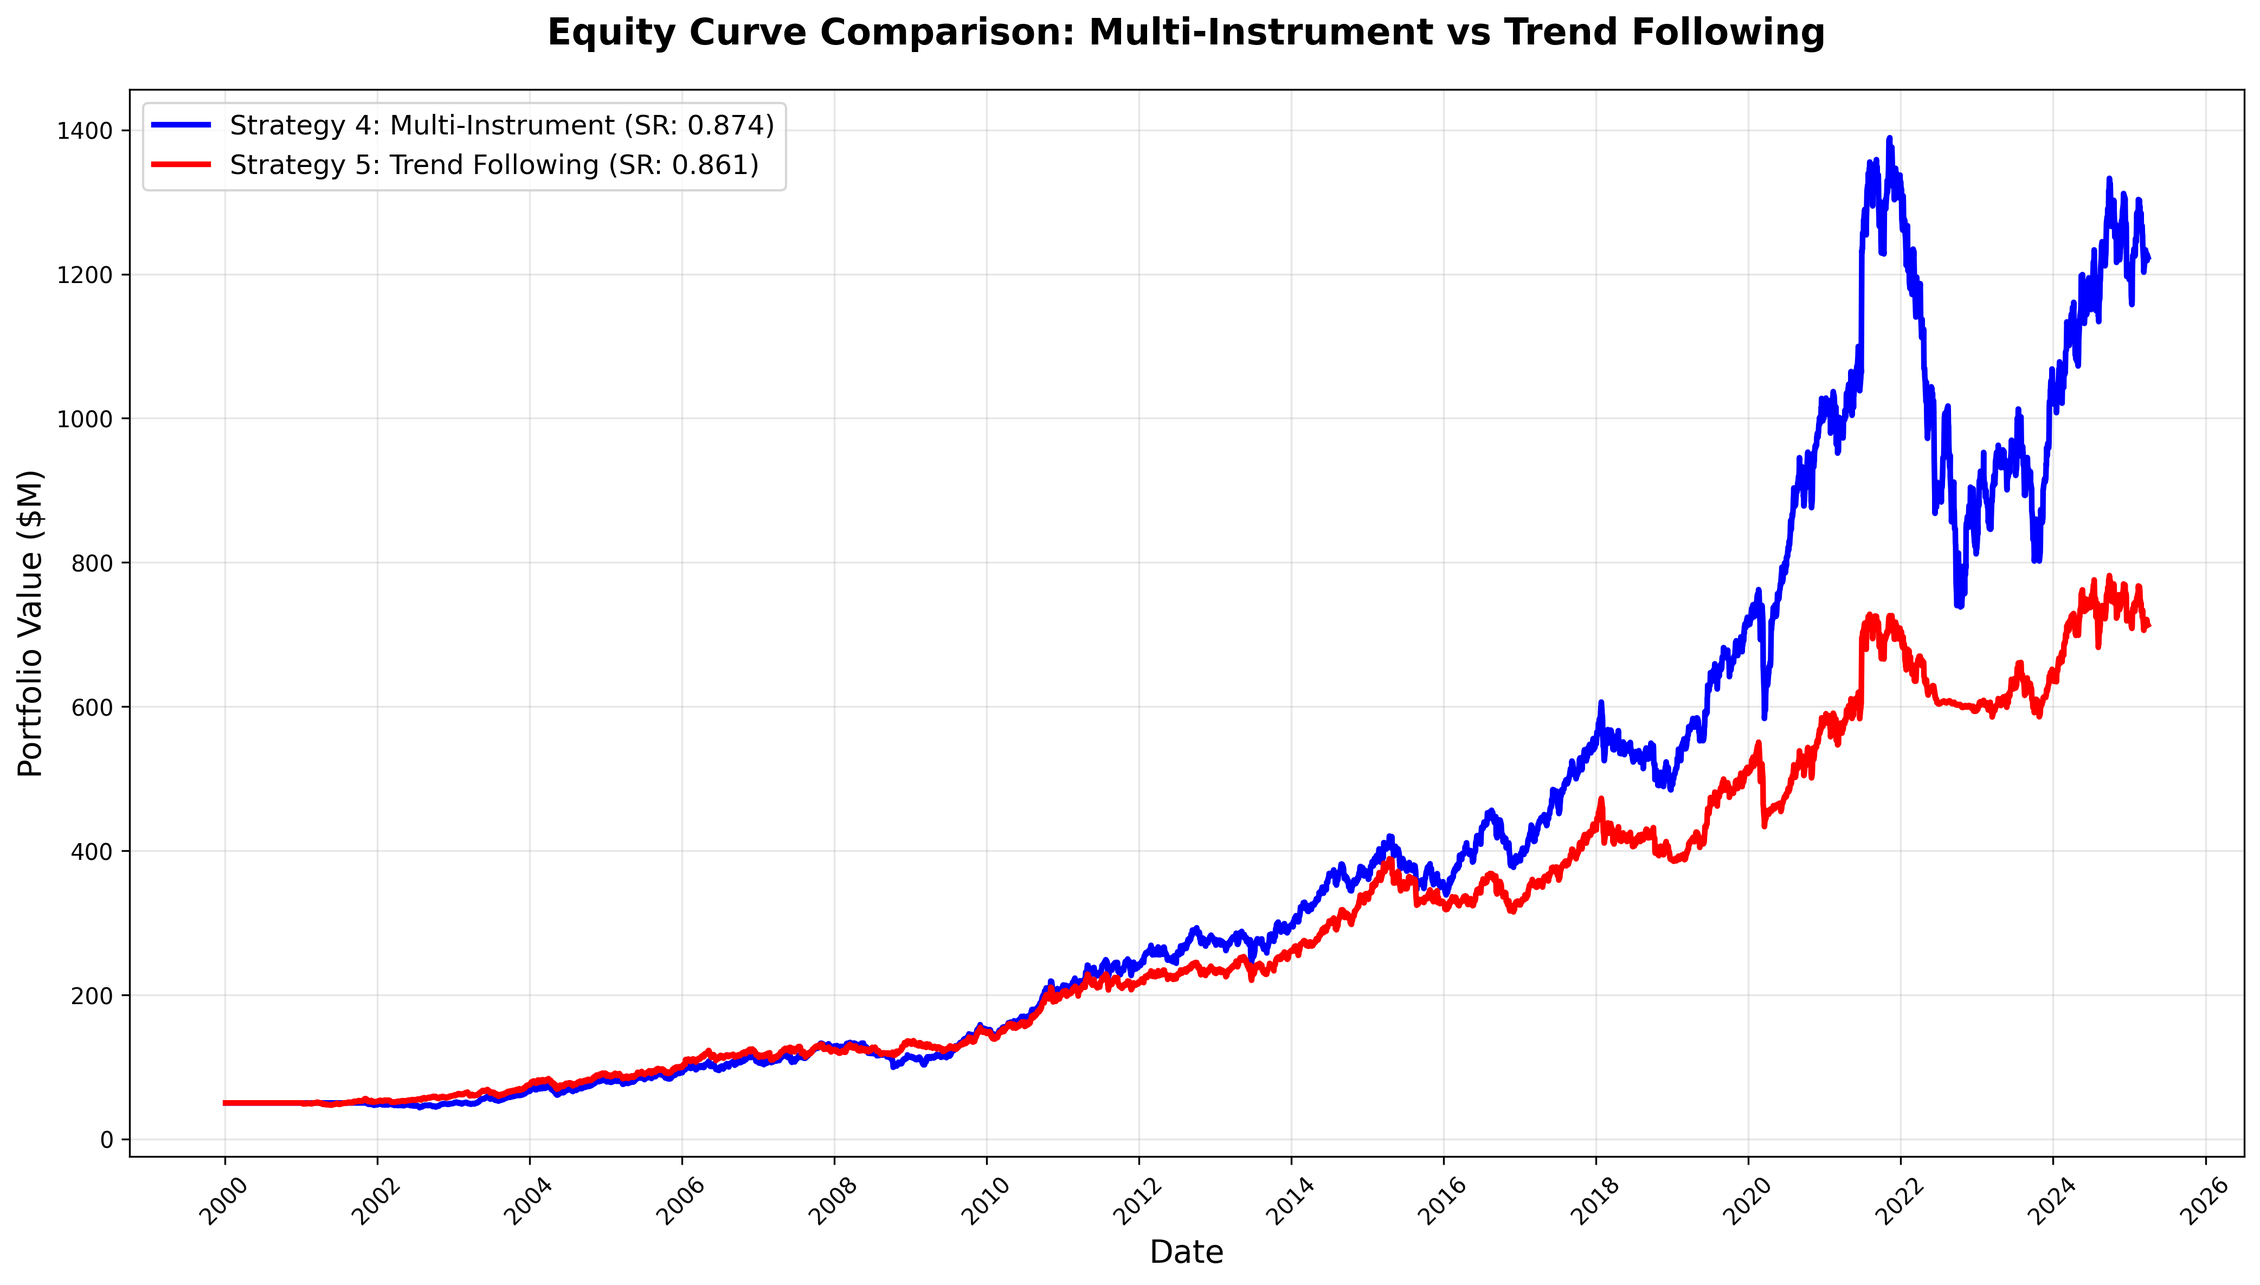
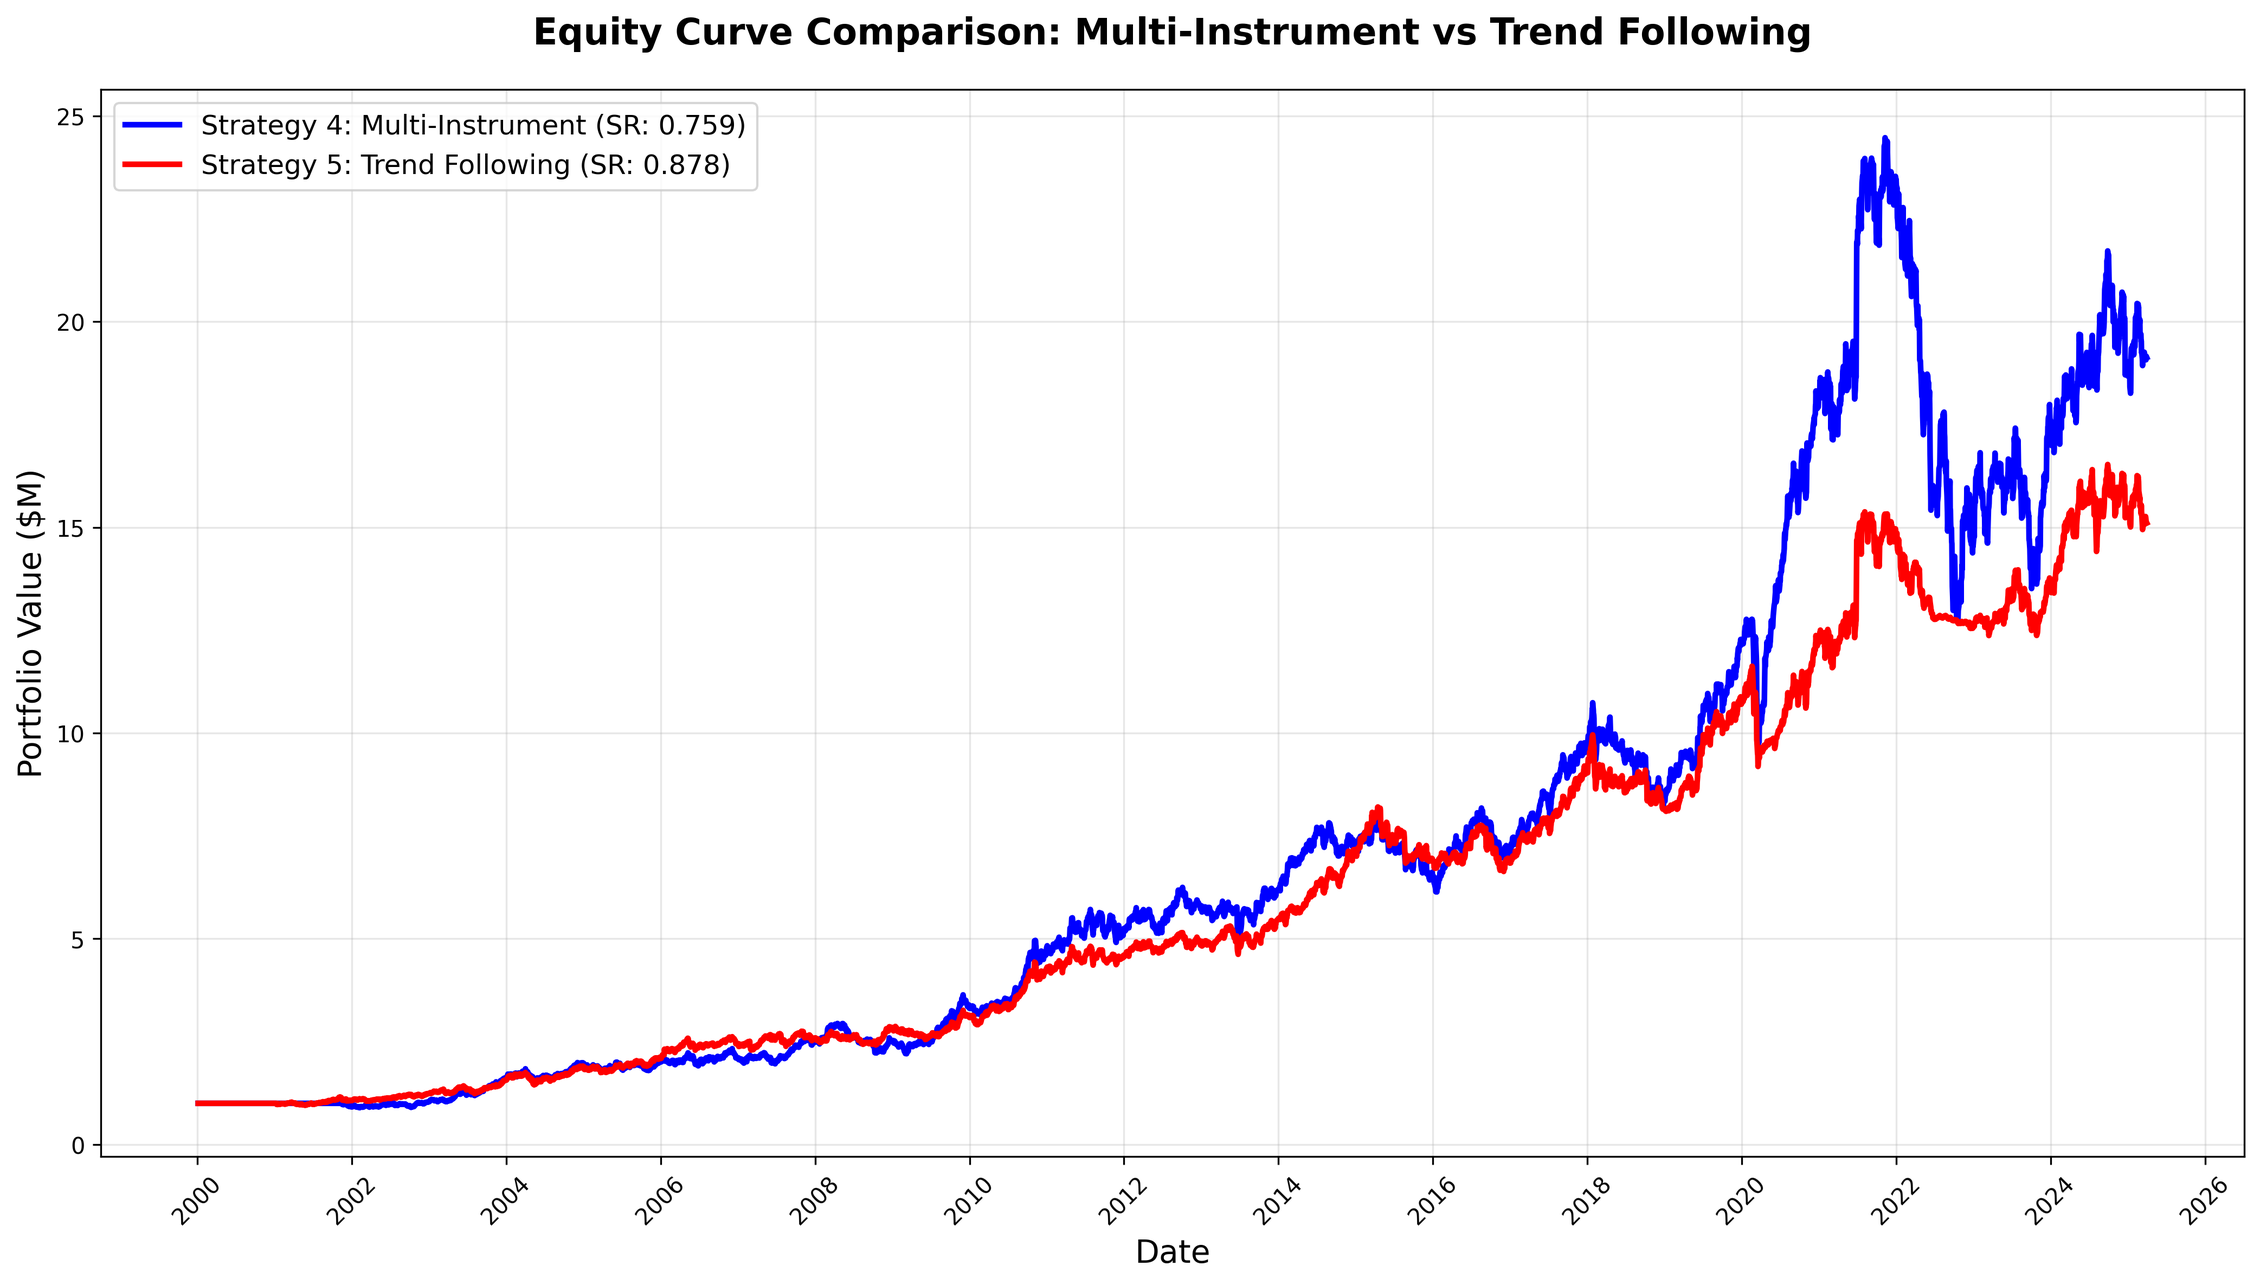
rob port changes

diff --git a/rob_port/chapter5.py b/rob_port/chapter5.py
@@ -99,7 +99,7 @@ def apply_trend_filter_to_position(base_position: pd.Series, prices: pd.Series,
 # 1. Calculate base position using calculate_portfolio_position_size
 # 2. Apply trend filter by zeroing out bearish positions using apply_trend_filter_to_position
 
-def backtest_trend_following_strategy(data_dir='Data', capital=50000000, risk_target=0.2,
+def backtest_trend_following_strategy(data_dir='Data', capital=1000000, risk_target=0.2,
                                     short_span=32, long_years=10, min_vol_floor=0.05,
                                     trend_fast_span=64, trend_slow_span=256,
                                     weight_method='handcrafted',
@@ -687,6 +687,80 @@ Strategy 5 (Trend Following):
         import traceback
         traceback.print_exc()
 
+def plot_strategy5_equity_curve(results, save_path='results/strategy5.png'):
+    """
+    Plot Strategy 5 equity curve and save to file.
+    
+    Parameters:
+        results (dict): Results from backtest_trend_following_strategy.
+        save_path (str): Path to save the plot.
+    """
+    try:
+        os.makedirs(os.path.dirname(save_path), exist_ok=True)
+        
+        portfolio_df = results['portfolio_data']
+        config = results['config']
+        performance = results['performance']
+        
+        equity_curve = build_account_curve(portfolio_df['portfolio_return'], config['capital'])
+        
+        plt.figure(figsize=(12, 8))
+        
+        plt.subplot(2, 1, 1)
+        plt.plot(equity_curve.index, equity_curve.values, 'g-', linewidth=1.5, label='Strategy 5: Trend Following')
+        plt.title('Strategy 5: Trend Following Portfolio Equity Curve', fontsize=14, fontweight='bold')
+        plt.ylabel('Portfolio Value ($)', fontsize=12)
+        plt.grid(True, alpha=0.3)
+        plt.legend()
+        
+        plt.gca().yaxis.set_major_formatter(plt.FuncFormatter(lambda x, p: f'${x/1e6:.1f}M'))
+        
+        plt.subplot(2, 1, 2)
+        drawdown_stats = calculate_maximum_drawdown(equity_curve)
+        drawdown_series = drawdown_stats['drawdown_series'] * 100
+        
+        plt.fill_between(drawdown_series.index, drawdown_series.values, 0, 
+                        color='red', alpha=0.3, label='Drawdown')
+        plt.plot(drawdown_series.index, drawdown_series.values, 'r-', linewidth=1)
+        plt.title('Drawdown', fontsize=12, fontweight='bold')
+        plt.ylabel('Drawdown (%)', fontsize=12)
+        plt.xlabel('Date', fontsize=12)
+        plt.grid(True, alpha=0.3)
+        plt.legend()
+        
+        for ax in plt.gcf().get_axes():
+            ax.xaxis.set_major_formatter(mdates.DateFormatter('%Y'))
+            ax.xaxis.set_major_locator(mdates.YearLocator(2))
+            plt.setp(ax.xaxis.get_majorticklabels(), rotation=45)
+        
+        time_in_market = (performance['avg_long_signals'] / performance['num_instruments']) * 100
+        
+        textstr = f'''Performance Summary:
+Total Return: {performance['total_return']:.1%}
+Annualized Return: {performance['annualized_return']:.1%}
+Volatility: {performance['annualized_volatility']:.1%}
+Sharpe Ratio: {performance['sharpe_ratio']:.3f}
+Max Drawdown: {performance['max_drawdown_pct']:.1f}%
+Time in Market: {time_in_market:.1f}%
+Instruments: {performance.get('num_instruments', 'N/A')} 
+Period: {config['backtest_start'].strftime('%Y-%m-%d')} to {config['backtest_end'].strftime('%Y-%m-%d')}'''
+        
+        plt.figtext(0.02, 0.02, textstr, fontsize=9, verticalalignment='bottom',
+                   bbox=dict(boxstyle='round', facecolor='lightgreen', alpha=0.8))
+        
+        plt.tight_layout()
+        plt.subplots_adjust(bottom=0.25)
+        
+        plt.savefig(save_path, dpi=300, bbox_inches='tight')
+        plt.show()
+        
+        print(f"\n✅ Strategy 5 equity curve saved to: {save_path}")
+        
+    except Exception as e:
+        print(f"Error plotting equity curve: {e}")
+        import traceback
+        traceback.print_exc()
+
 def plot_equity_curves_only(strategy4_results, strategy5_results, save_path='results/equity_curves_comparison.png'):
     """
     Plot only the equity curves for Strategy 4 vs Strategy 5 comparison.
@@ -739,12 +813,18 @@ def plot_equity_curves_only(strategy4_results, strategy5_results, save_path='res
         import traceback
         traceback.print_exc()
 
-def compare_strategies(strategy5_results=None):
+def compare_strategies(strategy5_results=None, capital=1000000, risk_target=0.2, 
+                      start_date=None, end_date=None, weight_method='handcrafted'):
     """
     Compare Strategy 4 (no trend filter) vs Strategy 5 (with trend filter).
     
     Parameters:
         strategy5_results (dict): Pre-computed Strategy 5 results to avoid re-running.
+        capital (float): Starting capital for Strategy 4 comparison.
+        risk_target (float): Risk target for Strategy 4 comparison.
+        start_date (str): Start date for Strategy 4 comparison.
+        end_date (str): End date for Strategy 4 comparison.
+        weight_method (str): Weight method for Strategy 4 comparison.
     """
     print("\n" + "=" * 80)
     print("STRATEGY COMPARISON: STRATEGY 4 vs STRATEGY 5")
@@ -752,34 +832,38 @@ def compare_strategies(strategy5_results=None):
     
     try:
         # Strategy 4 (no trend filter)
-        print("Running Strategy 4 (no trend filter)...")
+        print("Running Strategy 4 (no trend filter) for comparison...")
         strategy4_results = backtest_multi_instrument_strategy(
             data_dir='Data',
-            capital=50000000,
-            risk_target=0.2,
+            capital=capital,
+            risk_target=risk_target,
             short_span=32,
             long_years=10,
             min_vol_floor=0.05,
-            weight_method='handcrafted',
+            weight_method=weight_method,
             common_hypothetical_SR=0.3,
-            annual_turnover_T=7.0
+            annual_turnover_T=7.0,
+            start_date=start_date,
+            end_date=end_date
         )
         
         # Use pre-computed Strategy 5 results if provided
         if strategy5_results is None:
-            print("Running Strategy 5 (with trend filter)...")
+            print("Running Strategy 5 (with trend filter) for comparison...")
             strategy5_results = backtest_trend_following_strategy(
                 data_dir='Data',
-                capital=50000000,
-                risk_target=0.2,
+                capital=capital,
+                risk_target=risk_target,
                 short_span=32,
                 long_years=10,
                 min_vol_floor=0.05,
                 trend_fast_span=64,
                 trend_slow_span=256,
-                weight_method='handcrafted',
+                weight_method=weight_method,
                 common_hypothetical_SR=0.3,
-                annual_turnover_T=7.0
+                annual_turnover_T=7.0,
+                start_date=start_date,
+                end_date=end_date
             )
         else:
             print("Using pre-computed Strategy 5 results...")
@@ -842,31 +926,64 @@ def main():
     """
     Test Strategy 5 implementation.
     """
+    # ===========================================
+    # CONFIGURATION - MODIFY THESE AS NEEDED
+    # ===========================================
+    CAPITAL = 1000000               # Starting capital
+    START_DATE = '2000-01-01'       # Backtest start date (YYYY-MM-DD) or None for earliest available
+    END_DATE = '2025-12-31'         # Backtest end date (YYYY-MM-DD) or None for latest available
+    RISK_TARGET = 0.2               # 20% annual risk target
+    WEIGHT_METHOD = 'handcrafted'   # 'equal', 'vol_inverse', or 'handcrafted'
+    TREND_FAST_SPAN = 64            # Fast EWMA span for trend filter
+    TREND_SLOW_SPAN = 256           # Slow EWMA span for trend filter
+    
     print("=" * 60)
     print("TESTING STRATEGY 5: TREND FOLLOWING")
+    print("=" * 60)
+    print(f"Configuration:")
+    print(f"  Capital: ${CAPITAL:,}")
+    print(f"  Date Range: {START_DATE or 'earliest'} to {END_DATE or 'latest'}")
+    print(f"  Risk Target: {RISK_TARGET:.1%}")
+    print(f"  Weight Method: {WEIGHT_METHOD}")
+    print(f"  Trend Filter: EWMA({TREND_FAST_SPAN},{TREND_SLOW_SPAN})")
     print("=" * 60)
     
     try:
         # Run Strategy 5 backtest
         results = backtest_trend_following_strategy(
             data_dir='Data',
-            capital=50000000,
-            risk_target=0.2,
+            capital=CAPITAL,
+            risk_target=RISK_TARGET,
             short_span=32,
             long_years=10,
             min_vol_floor=0.05,
-            trend_fast_span=64,
-            trend_slow_span=256,
-            weight_method='handcrafted',
+            trend_fast_span=TREND_FAST_SPAN,
+            trend_slow_span=TREND_SLOW_SPAN,
+            weight_method=WEIGHT_METHOD,
             common_hypothetical_SR=0.3,
-            annual_turnover_T=7.0
+            annual_turnover_T=7.0,
+            start_date=START_DATE,
+            end_date=END_DATE
         )
         
         # Analyze results
         analyze_trend_following_results(results)
-        
+
+        # Plot Strategy 5 equity curve
+        plot_strategy5_equity_curve(results)
+
+        '''
         # Compare strategies using pre-computed Strategy 5 results
-        comparison = compare_strategies(strategy5_results=results)
+        comparison = compare_strategies(
+            strategy5_results=results,
+            capital=CAPITAL,
+            risk_target=RISK_TARGET,
+            start_date=START_DATE,
+            end_date=END_DATE,
+            weight_method=WEIGHT_METHOD
+        )
+        
+        
         
         # Plot strategy comparison
         if comparison and comparison['strategy4'] and comparison['strategy5']:
@@ -874,6 +991,8 @@ def main():
         
         # Plot equity curves only
         plot_equity_curves_only(comparison['strategy4'], comparison['strategy5'])
+
+        '''
         
         print(f"\nStrategy 5 backtest completed successfully!")
         return results

diff --git a/rob_port/chapter6.py b/rob_port/chapter6.py
@@ -528,6 +528,84 @@ def analyze_long_short_results(results):
     print(f"Instruments with >25% time short: {sum(1 for stats in instrument_stats.values() if stats['percent_time_short_intended'] > 0.25)}")
     print(f"Instruments with any activity: {len(instrument_stats)}")
 
+def plot_strategy6_equity_curve(results, save_path='results/strategy6.png'):
+    """
+    Plot Strategy 6 equity curve and save to file.
+    
+    Parameters:
+        results (dict): Results from backtest_long_short_trend_strategy.
+        save_path (str): Path to save the plot.
+    """
+    try:
+        os.makedirs(os.path.dirname(save_path), exist_ok=True)
+        
+        portfolio_df = results['portfolio_data']
+        config = results['config']
+        performance = results['performance']
+        
+        equity_curve = build_account_curve(portfolio_df['portfolio_return'], config['capital'])
+        
+        plt.figure(figsize=(12, 8))
+        
+        plt.subplot(2, 1, 1)
+        plt.plot(equity_curve.index, equity_curve.values, 'purple', linewidth=1.5, label='Strategy 6: Long/Short Trend Following')
+        plt.title('Strategy 6: Long/Short Trend Following Portfolio Equity Curve', fontsize=14, fontweight='bold')
+        plt.ylabel('Portfolio Value ($)', fontsize=12)
+        plt.grid(True, alpha=0.3)
+        plt.legend()
+        
+        plt.gca().yaxis.set_major_formatter(plt.FuncFormatter(lambda x, p: f'${x/1e6:.1f}M'))
+        
+        plt.subplot(2, 1, 2)
+        drawdown_stats = calculate_maximum_drawdown(equity_curve)
+        drawdown_series = drawdown_stats['drawdown_series'] * 100
+        
+        plt.fill_between(drawdown_series.index, drawdown_series.values, 0, 
+                        color='red', alpha=0.3, label='Drawdown')
+        plt.plot(drawdown_series.index, drawdown_series.values, 'r-', linewidth=1)
+        plt.title('Drawdown', fontsize=12, fontweight='bold')
+        plt.ylabel('Drawdown (%)', fontsize=12)
+        plt.xlabel('Date', fontsize=12)
+        plt.grid(True, alpha=0.3)
+        plt.legend()
+        
+        for ax in plt.gcf().get_axes():
+            ax.xaxis.set_major_formatter(mdates.DateFormatter('%Y'))
+            ax.xaxis.set_major_locator(mdates.YearLocator(2))
+            plt.setp(ax.xaxis.get_majorticklabels(), rotation=45)
+        
+        total_time_in_market = ((performance['avg_long_signals'] + performance['avg_short_signals']) / performance['num_instruments']) * 100
+        time_long = (performance['avg_long_signals'] / performance['num_instruments']) * 100
+        time_short = (performance['avg_short_signals'] / performance['num_instruments']) * 100
+        
+        textstr = f'''Performance Summary:
+Total Return: {performance['total_return']:.1%}
+Annualized Return: {performance['annualized_return']:.1%}
+Volatility: {performance['annualized_volatility']:.1%}
+Sharpe Ratio: {performance['sharpe_ratio']:.3f}
+Max Drawdown: {performance['max_drawdown_pct']:.1f}%
+Time in Market: {total_time_in_market:.1f}%
+Time Long: {time_long:.1f}%
+Time Short: {time_short:.1f}%
+Instruments: {performance.get('num_instruments', 'N/A')} 
+Period: {config['backtest_start'].strftime('%Y-%m-%d')} to {config['backtest_end'].strftime('%Y-%m-%d')}'''
+        
+        plt.figtext(0.02, 0.02, textstr, fontsize=9, verticalalignment='bottom',
+                   bbox=dict(boxstyle='round', facecolor='lavender', alpha=0.8))
+        
+        plt.tight_layout()
+        plt.subplots_adjust(bottom=0.25)
+        
+        plt.savefig(save_path, dpi=300, bbox_inches='tight')
+        plt.show()
+        
+        print(f"\n✅ Strategy 6 equity curve saved to: {save_path}")
+        
+    except Exception as e:
+        print(f"Error plotting equity curve: {e}")
+        import traceback
+        traceback.print_exc()
+
 def plot_strategy4_vs_strategy6_equity_curves(strategy4_results, strategy6_results, save_path='results/strategy4_vs_strategy6_equity_curves.png'):
     """
     Plot only the equity curves for Strategy 4 vs Strategy 6 comparison.
@@ -698,35 +776,58 @@ def main():
     """
     Test Strategy 6 implementation.
     """
+    # ===========================================
+    # CONFIGURATION - MODIFY THESE AS NEEDED
+    # ===========================================
+    CAPITAL = 1000000               # Starting capital
+    START_DATE = '2000-01-01'       # Backtest start date (YYYY-MM-DD) or None for earliest available
+    END_DATE = '2020-01-01'         # Backtest end date (YYYY-MM-DD) or None for latest available
+    RISK_TARGET = 0.2               # 20% annual risk target
+    WEIGHT_METHOD = 'handcrafted'   # 'equal', 'vol_inverse', or 'handcrafted'
+    TREND_FAST_SPAN = 8            # Fast EWMA span for trend filter
+    TREND_SLOW_SPAN = 32           # Slow EWMA span for trend filter
+    
     print("=" * 60)
     print("TESTING STRATEGY 6: LONG/SHORT TREND FOLLOWING")
+    print("=" * 60)
+    print(f"Configuration:")
+    print(f"  Capital: ${CAPITAL:,}")
+    print(f"  Date Range: {START_DATE or 'earliest'} to {END_DATE or 'latest'}")
+    print(f"  Risk Target: {RISK_TARGET:.1%}")
+    print(f"  Weight Method: {WEIGHT_METHOD}")
+    print(f"  Trend Filter: EWMA({TREND_FAST_SPAN},{TREND_SLOW_SPAN}) Long/Short")
     print("=" * 60)
     
     try:
         # Run Strategy 6 backtest
         results = backtest_long_short_trend_strategy(
             data_dir='Data',
-            capital=50000000,
-            risk_target=0.2,
+            capital=CAPITAL,
+            risk_target=RISK_TARGET,
             short_span=32,
             long_years=10,
             min_vol_floor=0.05,
-            trend_fast_span=64,
-            trend_slow_span=256,
-            weight_method='handcrafted',
+            trend_fast_span=TREND_FAST_SPAN,
+            trend_slow_span=TREND_SLOW_SPAN,
+            weight_method=WEIGHT_METHOD,
             common_hypothetical_SR=0.3,
-            annual_turnover_T=7.0
+            annual_turnover_T=7.0,
+            start_date=START_DATE,
+            end_date=END_DATE
         )
         
         # Analyze results
         analyze_long_short_results(results)
         
+        # Plot Strategy 6 equity curve
+        plot_strategy6_equity_curve(results)
+        
         # Compare all strategies
-        comparison = compare_all_strategies()
+        # comparison = compare_all_strategies()
         
         # Plot Strategy 4 vs Strategy 6 equity curves
-        if comparison and comparison['strategy4'] and comparison['strategy6']:
-            plot_strategy4_vs_strategy6_equity_curves(comparison['strategy4'], comparison['strategy6'])
+        # if comparison and comparison['strategy4'] and comparison['strategy6']:
+        #     plot_strategy4_vs_strategy6_equity_curves(comparison['strategy4'], comparison['strategy6'])
         
         print(f"\nStrategy 6 backtest completed successfully!")
         return results
